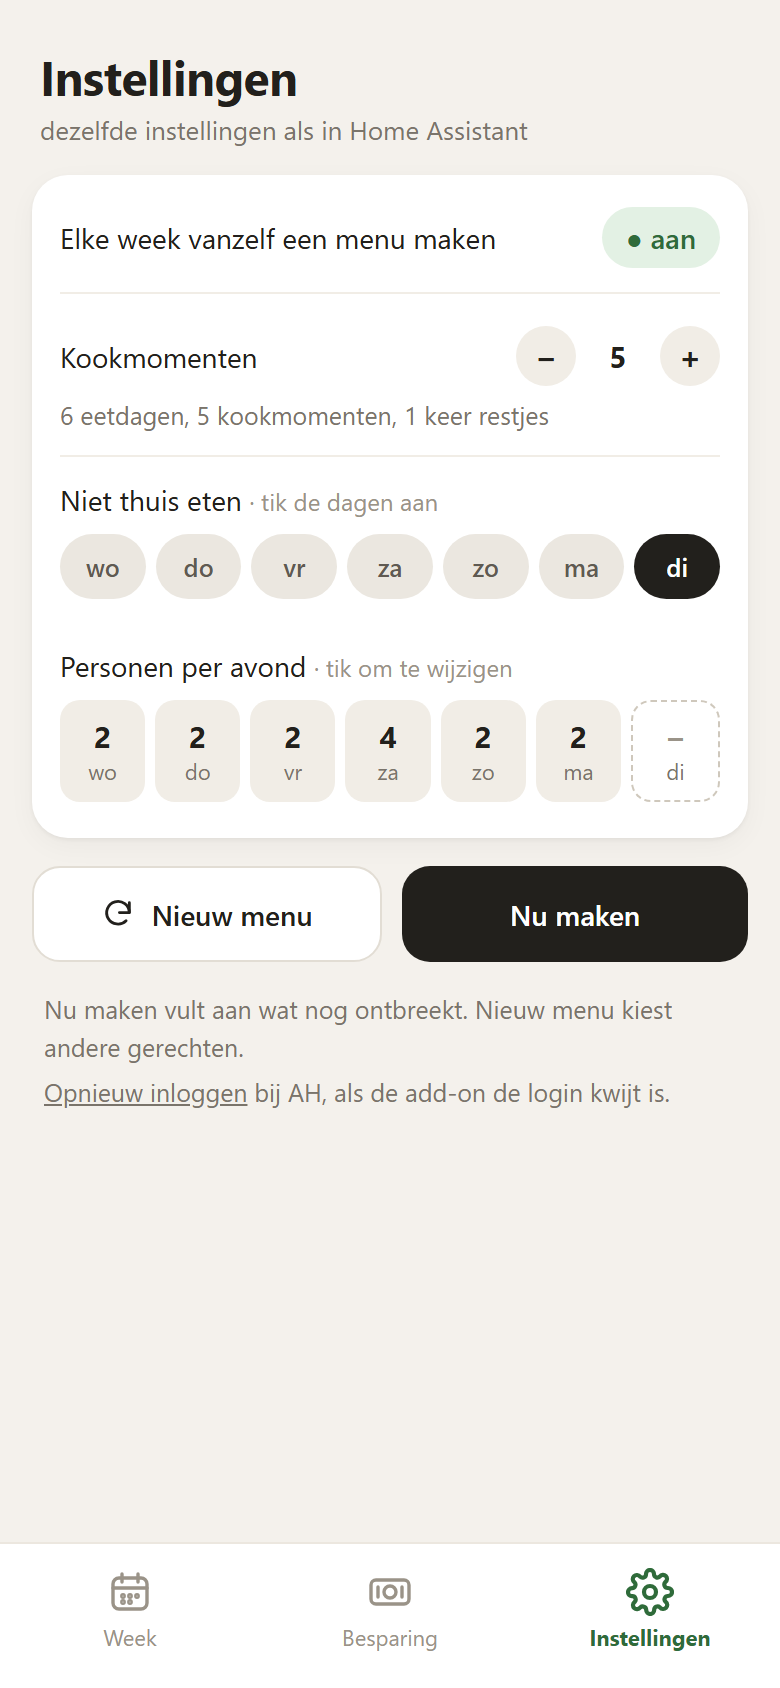
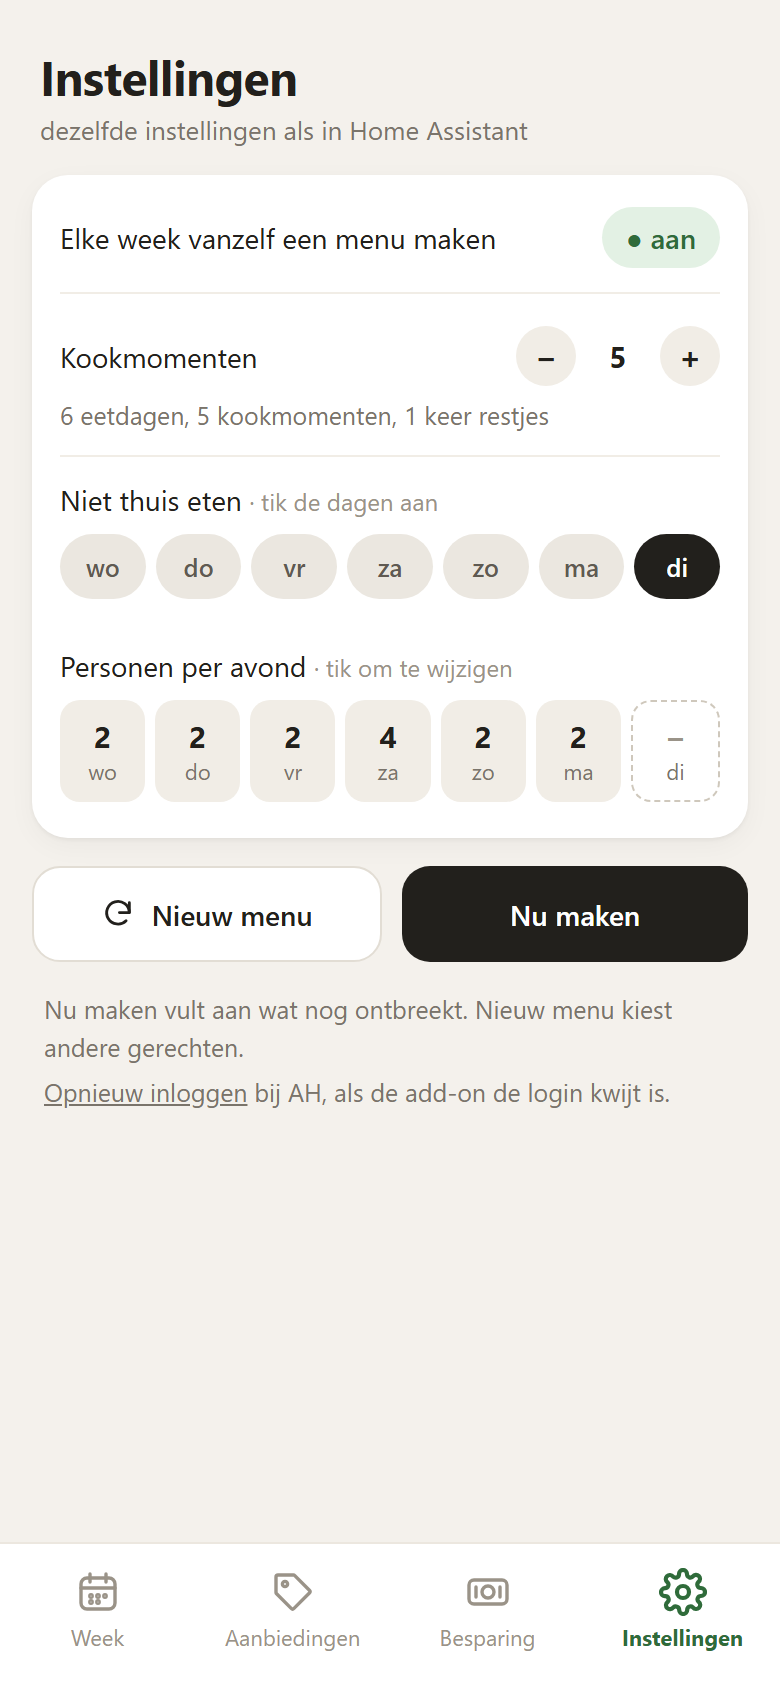
chore: versie 0.4.0, CHANGELOG, README over opschonen en aanbiedingen, nieuwe screenshots

Changed region(s): [[0.3077, 0.9242, 0.6769, 0.9858], [0.7692, 0.9242, 0.9538, 0.9858], [0.0923, 0.9242, 0.2154, 0.9858]]

diff --git a/README.md b/README.md
@@ -2,7 +2,16 @@
 
 Home Assistant add-on that builds a weekly dinner menu from Allerhande recipes around the current Albert Heijn bonus, puts the groceries on your AH list or in your open delivery order, and shows the menu and the estimated savings in Home Assistant.
 
-This uses the unofficial API of the Albert Heijn app. It is not affiliated with or endorsed by Albert Heijn, and it can break whenever AH changes that API. It never checks out, never removes anything from your list or order, and keeps your AH login only inside the add-on.
+This uses the unofficial API of the Albert Heijn app. It is not affiliated with or endorsed by Albert Heijn, and it can break whenever AH changes that API. It never checks out. The only things it ever removes from your list or order are products it added itself for a menu and no dish needs any more (see Cleaning up); what you put there yourself stays. It keeps your AH login only inside the add-on.
+
+## What it does
+
+- Makes a menu of Allerhande dishes around the bonus, one dish per cooking moment, and puts the groceries on your AH list or in your open delivery order. Nothing is ever checked out.
+- With more eat days than cooking moments, the extra eat days become leftover nights ("restjes van <dish>"): the dish is cooked for both evenings and nothing extra is bought.
+- Cleans up after itself: when you swap a dish, remove one, lower the persons or make a new menu, it takes the products it added itself and no dish needs any more off the list or out of the order.
+- Makes the menu early: Nu maken works before the new folder is out, and when the folder then appears the app offers Menu bijwerken ("Nieuwe folder is er").
+- Shows the whole bonus folder of the week in the Aanbiedingen tab, per category with search, and adds an offer with one tap.
+- Shows the estimated savings per week, per month and in total in the app and in Home Assistant.
 
 ## Install
 
@@ -25,3 +34,11 @@ In the app, under Settings, tap the days (Wednesday to Tuesday) you do not eat a
 ## Cooking moments and leftovers
 
 The days you do eat at home are the eat days. Under Settings you choose the number of cooking moments (`input_number.weekmenu_avonden`), from 1 up to the number of eat days; a value outside that range is bounded, not refused. With fewer cooking moments than eat days, the extra eat days become leftover nights: the earliest cooking days cook for their own evening plus the next eat day (2 + 2 = 4 persons), at most one leftover night each, and never with fish. Nothing extra is bought for a leftover night. The app, the push message and `sensor.weekmenu` show it as "<day> · restjes van <dish>"; on the sensor it is an entry of its own with the field `restjes_van`. Swapping the dish keeps the leftover night, removing the dish drops it too. With fewer than half as many cooking moments as eat days, the last eat days get no dish; those, and a cooking day the planner could not fill, show as "<day> · geen kookmoment". When days are set to "niet thuis", the add-on lowers the helper to the number of eat days if needed. A dish with a leftover night can be set to up to 16 persons.
+
+## Cleaning up
+
+When you pick Ander gerecht, Nieuw menu, Menu bijwerken, fewer persons or Gerecht weghalen (a new button on the dish screen: the evening gets no dish, and its leftover night goes too), the add-on lowers what it added itself and the new menu no longer needs. The new quantity is the current quantity minus what the add-on added and is no longer needed, never lower than what is on there besides the add-on. Products you ticked off on the list are left alone, and so are Vaste boodschappen and Aanbiedingen you tapped yourself: those are never cleaned up. Every lowering goes through the same write-ahead log as adding: noted first, then written, and after a crash first checked whether it arrived, never blindly repeated. A menu that is not for a coming week any more (the week has started) is not cleaned up. The app tells you how many products went ("2 producten uit je bestelling gehaald"). The add-on never checks out.
+
+## Offers
+
+The Aanbiedingen tab (between Week and Besparing) lists the whole bonus folder of the menu week, per category, with a search field on the title. Each product shows its photo, the action, the price (the old price struck through) and a plus button. A tap puts the quantity the action asks for (one piece, or 2 for "1+1 gratis") in the open order, or on the list when there is none, through the same write route as Vaste boodschappen: one lock, written to the log first, never retried. The button then becomes a check with the quantity, and tapping twice adds nothing twice. An offer you tapped is a loose offer: it has its own line "waarvan losse aanbiedingen" under the savings of the week (next to "waarvan vaste boodschappen"), counts in the total, and is never cleaned up. Only this week and the next menu week can be added to (`GET api/offers?q=&category=`, `POST api/offers/<product id>`).

diff --git a/weekmenu/CHANGELOG.md b/weekmenu/CHANGELOG.md
@@ -1,0 +1,30 @@
+# Changelog
+
+## 0.4.0
+
+- **Opschonen.** Bij Ander gerecht, Nieuw menu, Menu bijwerken, minder personen en het nieuwe Gerecht weghalen haalt de add-on producten van de lijst of uit de bestelling die hij zelf voor dat menu heeft toegevoegd en die geen gerecht meer nodig heeft. Wat jullie zelf op de lijst of in de bestelling zetten blijft staan, ook vaste boodschappen en losse aanbiedingen die je zelf aantikte. Elke verlaging loopt via hetzelfde write-ahead-logboek als toevoegen, en afrekenen doet de add-on nog steeds nooit. De regel in de README dat de add-on nooit iets verwijdert is hiermee vervallen.
+- **Kookmomenten en restjes.** In plaats van "kookavonden" kies je kookmomenten, van 1 tot het aantal eetdagen. Zijn er meer eetdagen dan kookmomenten, dan worden de extra eetdagen restjesavonden ("<Dag> · restjes van <gerecht>"). Let op, dat is een ander gedrag dan voorheen: met 7 eetdagen en 5 kookmomenten zijn er nu 2 restjesavonden. De kookdag kookt voor zijn eigen avond plus de restjesavond (2 + 2 = 4 personen), nooit met vis, en er wordt niets extra voor gekocht. Een gerecht met restjes kan op tot 16 personen.
+- **Menu vóór de nieuwe folder.** Nu maken maakt altijd een menu, ook als de folder van de bezorgweek er nog niet is (met de huidige folder en een waarschuwing). Komt de nieuwe folder later, dan krijg je één melding "De nieuwe folder is er" en toont de app bovenaan "Nieuwe folder is er" met de knop Menu bijwerken. Die maakt een nieuw menu op de nieuwe folder met dezelfde eetdagen, personen, restjes en weggehaalde dagen. De automatische ronde past een bestaand menu nooit zelf aan.
+- **Tabblad Aanbiedingen.** De hele bonusfolder van de menuweek per categorie, met een zoekveld. Een plusknop zet het aantal dat de actie vraagt (bijvoorbeeld 2 bij 1+1 gratis) in de bestelling of op de lijst. Het telt mee in de besparing, op een eigen regel "waarvan losse aanbiedingen", en in het totaal. Een losse aanbieding wordt nooit opgeschoond.
+- Instellingen: "Niet thuis eten" en "Kookmomenten" tonen hoeveel eetdagen, kookmomenten en restjesavonden dat geeft.
+
+## 0.3.0
+
+- Niet thuis eten: tik in Instellingen de dagen aan waarop jullie niet thuis eten. Die avond krijgt geen gerecht en er wordt niets voor gekocht. De add-on onthoudt het aantal personen van die dag. Dit vervangt de oude ouders-helper.
+
+## 0.2.1
+
+- Avonden met 0 personen tellen als niet thuis in de app, de melding en `sensor.weekmenu`. De personen-helpers gaan van 0 tot 8.
+
+## 0.2.0
+
+- Het menu wordt gemaakt zodra de folder van de bezorgweek uit is, meestal op vrijdag. Vanaf `schedule_time` tot 18:00 kijkt de add-on elk uur. Is de folder zondag om 18:00 nog niet uit, dan wordt de huidige folder gebruikt en staat dat in de melding.
+- De app en de melding noemen voor welke bestelling het menu is ("Voor de bestelling van woensdag ...").
+- Een onafgemaakte ronde wordt één keer aangevuld, en een verlopen login verbruikt die kans niet.
+
+## 0.1.0
+
+- Eerste versie. Een weekmenu van Allerhande-recepten rond de AH-bonus, met de boodschappen in je open bestelling of op Mijn lijst, een logboek per menuweek zodat niets dubbel wordt toegevoegd, en een melding met de besparing.
+- App via ingress met de weekkaart, het gerechtscherm (ander gerecht, terug, personen), de besparing en Instellingen.
+- Vaste boodschappen in de bonus: producten die jullie vaak kopen en nu in de aanbieding zijn, als voorstel dat je met een tik toevoegt.
+- Sensoren `sensor.weekmenu` en de totale besparing in Home Assistant.

diff --git a/docs/screenshots/README.md b/docs/screenshots/README.md
@@ -19,11 +19,12 @@ Screenshots of the built Weekmenu app, made by `weekmenu/tests/test_frontend.py`
 | | |
 |---|---|
 | ![Week](app-week.png) | ![Dish](app-gerecht.png) |
-| ![Savings](app-besparing.png) | ![Settings](app-instellingen.png) |
-| ![Login](app-login.png) | |
+| ![Offers](app-aanbiedingen.png) | ![Savings](app-besparing.png) |
+| ![Settings](app-instellingen.png) | ![Login](app-login.png) |
 
 1. Week: under the title the order it is for ("Voor de bestelling van woensdag 4 november"), then the savings of the week, then one card per evening, an evening not at home and a leftover night ("Donderdag · restjes van ...") as quiet cards, and under the dishes "Ook in de bonus": staples bought often that are on offer, each with a plus button
 2. One dish: persons, ingredients with the AH product and the bonus offer, preparation and swap
-3. Savings: this month, since the start, and per week
-4. Settings: the same helpers as in Home Assistant: Kookmomenten with the explanation "6 eetdagen, 5 kookmomenten, 1 keer restjes", "Niet thuis eten" chips per day, plus Nieuw menu and Nu maken
-5. Login: paste the `appie://login-exit?code=…` line from the browser console
+3. Aanbiedingen: the whole bonus folder of the menu week per category with a search field on top; each product has its photo, the action, the price (old price struck through) and a plus button that becomes a check with the quantity once added
+4. Savings: this month, since the start, and per week
+5. Settings: the same helpers as in Home Assistant: Kookmomenten with the explanation "6 eetdagen, 5 kookmomenten, 1 keer restjes", "Niet thuis eten" chips per day, plus Nieuw menu and Nu maken
+6. Login: paste the `appie://login-exit?code=…` line from the browser console
